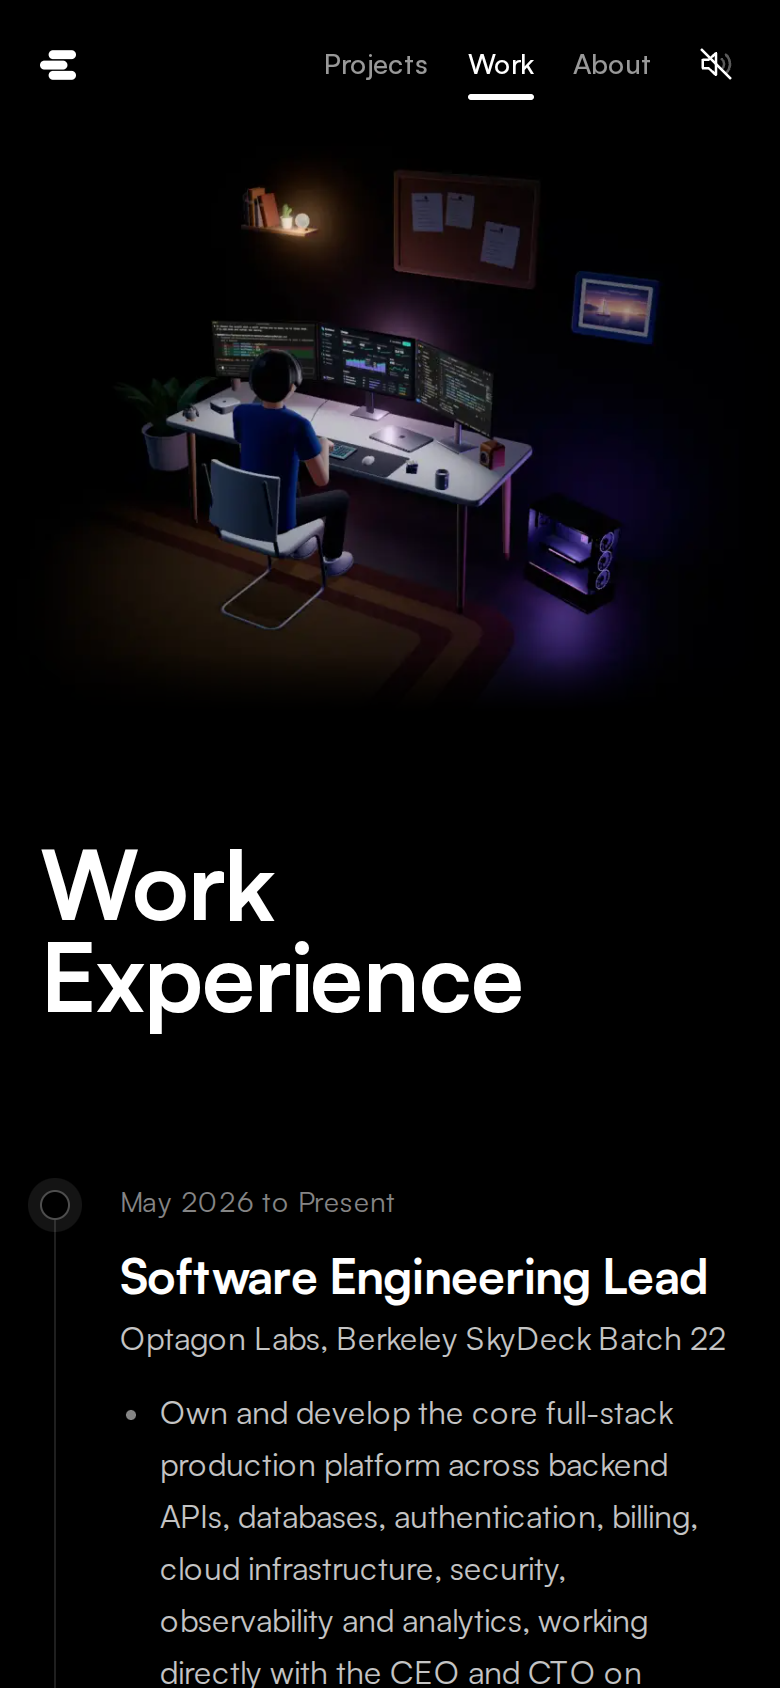
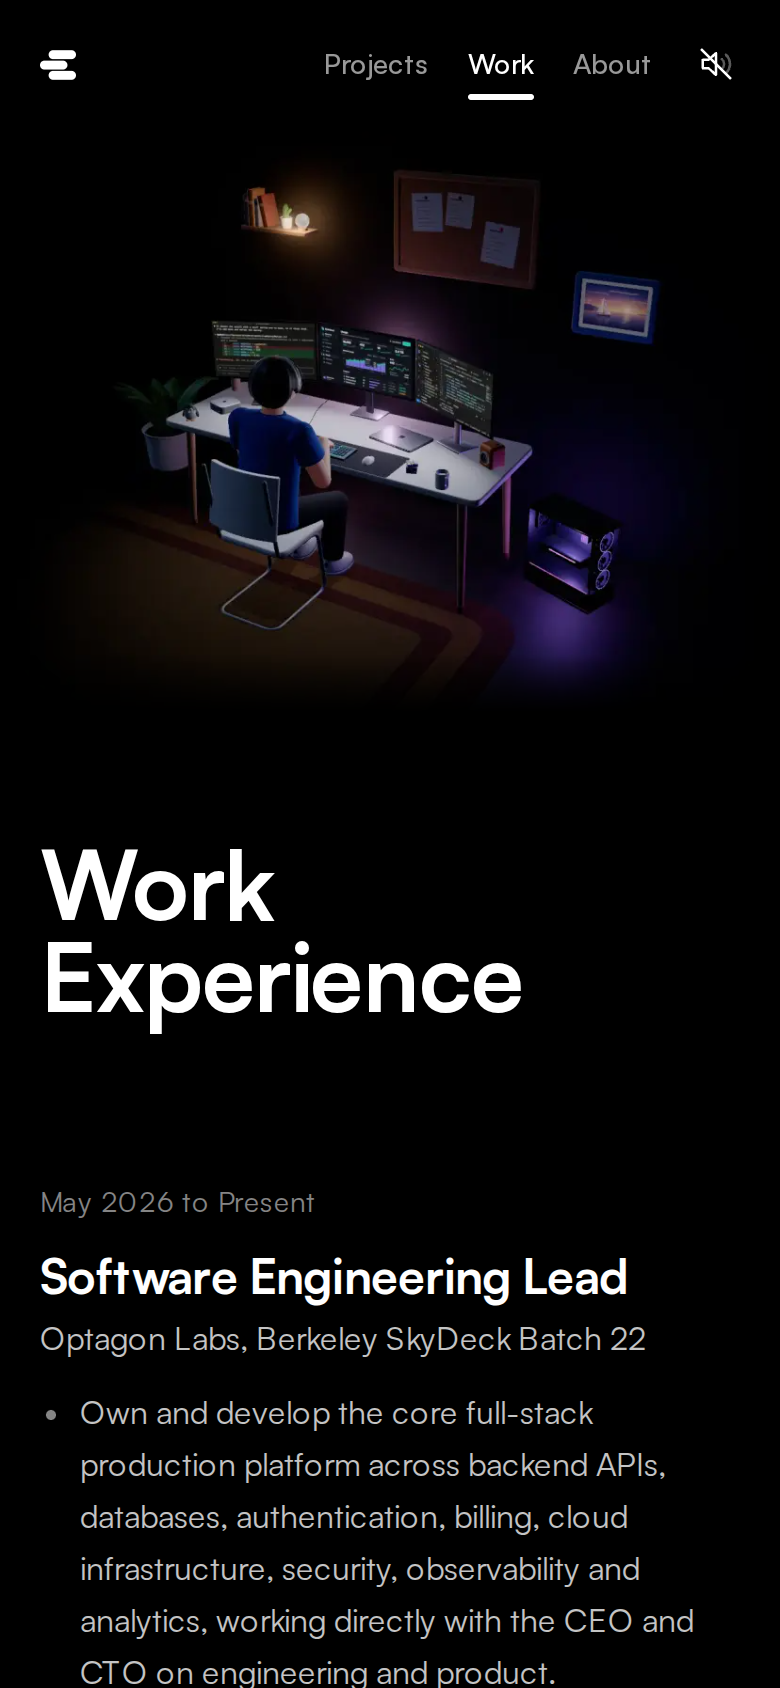
Drop the timeline rail and dots, and finalise the Content Machine copy
The white line and dots beside the jobs are gone, and the jobs now sit
flush with the column. The job being read stays brightest and the
centre monitor still follows it. Content Machine's description is
Edison's final wording.

diff --git a/src/features/experience/TimelineEntry.tsx b/src/features/experience/TimelineEntry.tsx
@@ -10,11 +10,8 @@ interface TimelineEntryProps {
   entry: Experience;
   /** The entry the reader is on right now. */
   current: boolean;
-  /** The rail has reached this entry, so its dot is filled. */
-  reached: boolean;
 }
 
-/** One job on the timeline: dates, role, company and a few bullet points. */
 /** Short points with small round markers, indented so wrapped lines line up with the text. */
 function BulletList({ points, className }: { points: string[]; className?: string }) {
   return (
@@ -26,7 +23,8 @@ function BulletList({ points, className }: { points: string[]; className?: strin
   );
 }
 
-export function TimelineEntry({ entry, current, reached }: TimelineEntryProps) {
+/** One job on the timeline: dates, role, company and a few bullet points. */
+export function TimelineEntry({ entry, current }: TimelineEntryProps) {
   return (
     <motion.li
       data-entry
@@ -34,16 +32,7 @@ export function TimelineEntry({ entry, current, reached }: TimelineEntryProps) {
       whileInView={{ opacity: 1, y: 0 }}
       viewport={{ once: true, margin: '0px 0px -12% 0px' }}
       transition={{ duration: 0.9, ease: EASE_OUT_EXPO }}
-      className="relative pl-10 sm:pl-12"
     >
-      <span
-        aria-hidden="true"
-        className={cn(
-          'absolute top-1 left-0 size-[15px] rounded-full border transition-[background-color,border-color,box-shadow] duration-500',
-          reached ? 'border-white bg-white' : 'border-grey-600 bg-black',
-          current && 'shadow-[0_0_0_6px_rgba(255,255,255,0.08)]',
-        )}
-      />
       <div
         className={cn(
           'flex flex-col gap-3 transition-opacity duration-700 ease-out-expo',

diff --git a/src/features/experience/Timeline.tsx b/src/features/experience/Timeline.tsx
@@ -1,7 +1,6 @@
 'use client';
 
 import type { RefObject } from 'react';
-import { motion, useScroll } from 'motion/react';
 import { experience } from '@/content/experience';
 import { TimelineEntry } from './TimelineEntry';
 
@@ -11,20 +10,13 @@ interface TimelineProps {
   active: number;
 }
 
-/** Vertical rail with a white fill that follows the scroll, and a dot per entry. */
+/** The jobs, one under another. The one being read is brightest. */
 export function Timeline({ listRef, active }: TimelineProps) {
-  const { scrollYProgress } = useScroll({ target: listRef, offset: ['start 50%', 'end 50%'] });
-
   return (
-    <div className="relative">
-      <div aria-hidden="true" className="absolute top-2 bottom-2 left-[7px] w-px bg-grey-800">
-        <motion.div className="h-full w-full origin-top bg-white" style={{ scaleY: scrollYProgress }} />
-      </div>
-      <ol ref={listRef} className="relative flex flex-col gap-20 sm:gap-24">
-        {experience.map((entry, index) => (
-          <TimelineEntry key={entry.id} entry={entry} current={index === Math.max(active, 0)} reached={index <= active} />
-        ))}
-      </ol>
-    </div>
+    <ol ref={listRef} className="flex flex-col gap-20 sm:gap-24">
+      {experience.map((entry, index) => (
+        <TimelineEntry key={entry.id} entry={entry} current={index === Math.max(active, 0)} />
+      ))}
+    </ol>
   );
 }

diff --git a/src/content/projects.ts b/src/content/projects.ts
@@ -58,7 +58,7 @@ export const projects: Project[] = [
     badges: [],
     stack: ['Claude Code', 'TypeScript', 'Node.js', 'FFmpeg', 'Zod', 'Vitest'],
     description:
-      'An agentic content automation package that lets Claude turn one long video into a polished content series. Claude runs a fully agentic editing pipeline: it reads the transcript, makes the creative calls on what to cut, and autonomously edits, frames and renders every video into a studio quality short. Claude then uses the agentic skill to schedule the videos for you across platforms.',
+      'An agentic content automation package that allows Claude to turn long-form videos into a polished content series. Claude uses a fully agentic editing pipeline. It reads the transcript, makes the creative calls on what to cut, and autonomously edits, frames and renders every video into a studio quality short. Claude then utilizes its agentic browser use skill to schedule the videos for you across platforms.',
     links: [
       { label: 'contentmachine-install.vercel.app', href: 'https://contentmachine-install.vercel.app' },
       { label: 'GitHub', href: 'https://github.com/edison16a/Content-Machine' },

diff --git a/src/features/experience/useDotSound.ts b/src/features/experience/useDotSound.ts
@@ -3,7 +3,7 @@
 import { useEffect, useRef } from 'react';
 import { sound } from '@/features/sound';
 
-/** Soft tick each time the reading line reaches a new timeline dot. */
+/** Soft tick each time the reader moves on to the next job. */
 export function useDotSound(active: number) {
   const previous = useRef(active);
 

diff --git a/README.md b/README.md
@@ -59,7 +59,7 @@ Every sound is synthesised in Node by `scripts/sounds` from oscillators, seeded 
 
 - **Music.** A calm lo fi track plays softly under the whole page: electric piano chords, a soft string pad, a round bass, brushes and a shaker at 76 bpm, centred on F, with a melody in the third of its four sections. It is 101 seconds long and loops without a seam. It lives in its own 1.2 MB file that only loads once sound is on. It swells in over 2 seconds, fades out when you turn sound off, and pauses while the tab is hidden. It sits well under the effects.
 - **Projects.** The spiral and the phone strip play one soft tap for every project they move to, whether you scroll, hold an arrow key or click a card further along. Quick runs play a little softer and never drop a tap.
-- **Work Experience.** A soft dot plays each time the timeline reaches another job.
+- **Work Experience.** A soft tick plays each time you scroll on to another job.
 - **About Me.** A short confirm plays when you copy the email. Nothing else there makes a sound.
 - **Navbar.** A soft click as the underline moves to another tab, a faint tick on hovering a tab, and a click on the sound switch itself.
 
